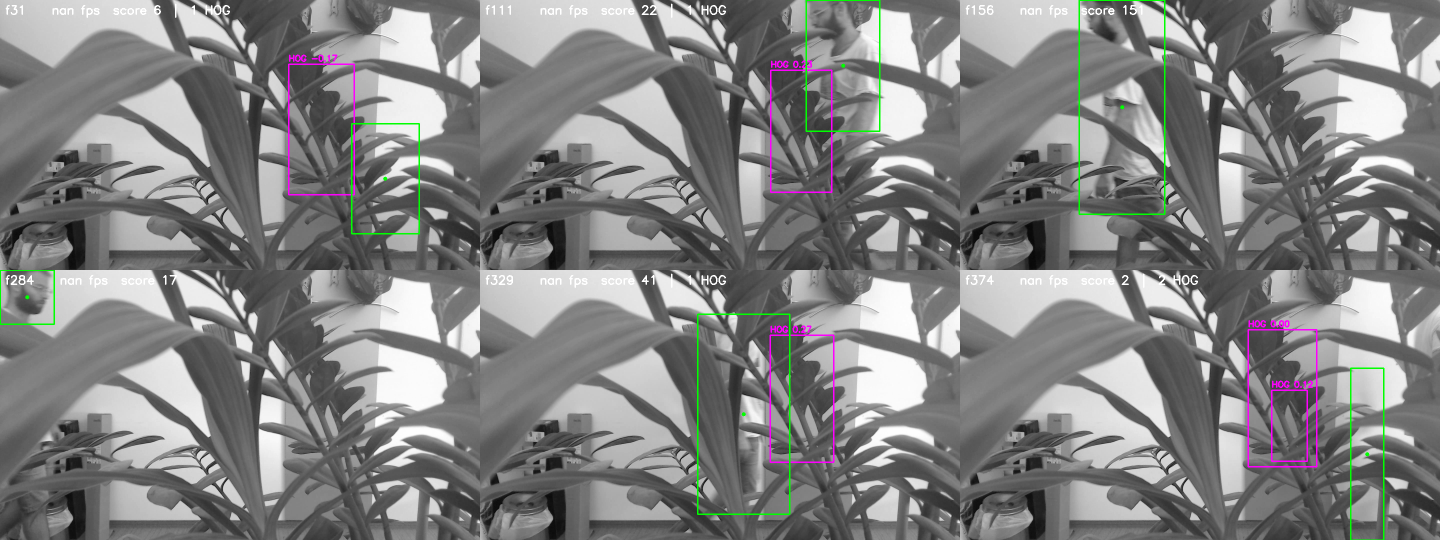
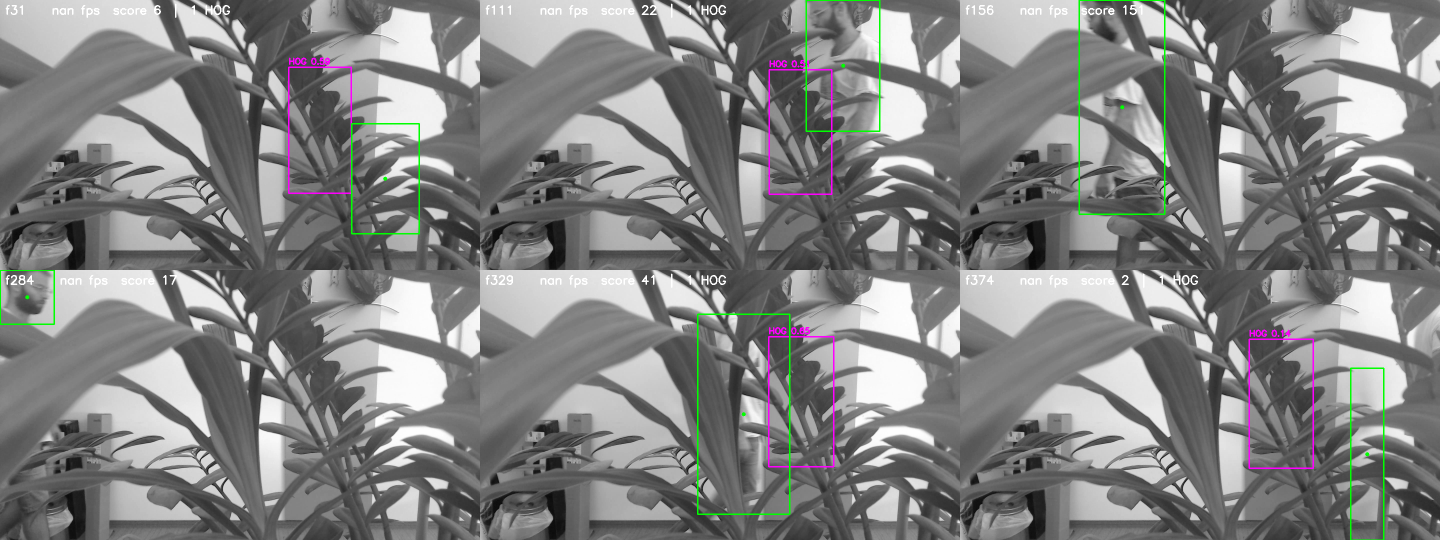
HOG over the merged blob box crop, not a synthetic person-shaped window
detect_person now crops the merged blob box grown by --hog-pad person-heights, resizes so the
person is --hog-target px tall, runs detectMultiScale, and maps the boxes back to full-frame
coordinates so they draw straight on top of the merged box.

box=None now returns [] instead of scanning the whole frame. The full-frame fallback fired
overwhelmingly on foliage and was being folded into the same statistic as box-restricted
detections, which is what made the earlier 13.4%/84.5% numbers meaningless.

Swept target x pad at margin >= 0 (fraction of boxed frames firing): target 256 -> 0.8/0.8/3.9%
for pad 0.10/0.25/0.50; target 384 -> 0.0/1.2/3.1%. Padding matters more than the resize, as
expected: HOG's default detector was trained on INRIA 64x128 windows in which the person fills
only the central half, so a crop cut tight to the silhouette is out of distribution. Best
config target=256 pad=0.5 gives 3.1% at margin >= 0 (mean margin 0.54) and 46.3% at >= -0.5.

Note what is now NOT measurable: with the crop restricted to the box, HOG's detections lie
inside that box by construction, so IoU against it is no longer an independent validity check.
Precision needs NFO's ground-truth boxes. The IoU=0.09 result recorded in the docs applies to
the person-shaped-window variant, and is kept there because it is the evidence that HOG fires on
foliage rather than on people in this scene.

diff --git a/tracking/stream/stream.py b/tracking/stream/stream.py
@@ -167,7 +167,7 @@ def hog_detector():
     return _HOG
 
 
-def detect_person(frame: np.ndarray, centre, person_height: float, pad: float = 0.25,
+def detect_person(frame: np.ndarray, box, person_height: float, pad: float = 0.25,
                   target_px: float = 128.0, win_stride=(8, 8), scale_step: float = 1.05,
                   hit_threshold: float = 0.0):
     """HOG on the CENTRE FRAME, restricted to a scale-relative crop around the tracker's
@@ -182,23 +182,25 @@ def detect_person(frame: np.ndarray, centre, person_height: float, pad: float = 
     own box is what makes this cheap and keeps HOG off the foliage; box=None falls back to the
     whole frame.
 
-    The crop is PERSON-SHAPED, not the merged box: HOG's window has a fixed 1:2 aspect, and
-    the merged box does not (measured on ido_walk its median height is 309px against a 421px
-    person, so it both under-covers and has an arbitrary aspect). So only the box's CENTRE is
-    used, and the window is (0.9 + 2*pad) x (1.5 + 2*pad) person heights around it.
+    The crop is the MERGED BLOB BOX, grown by pad person-heights on each side. Padding is not
+    cosmetic: HOG's default people detector was trained on 64x128 INRIA windows in which the
+    person occupies roughly the central half of the width, so a crop cut tight to the silhouette
+    is out of distribution for it.
+
+    box=None returns [] rather than scanning the whole frame. A full-frame scan on this footage
+    fires overwhelmingly on foliage, and folding that into the same number as box-restricted
+    detections makes the statistic meaningless.
 
     weights from detectMultiScale are SVM decision values, not probabilities - report them as
     the detector's own margin and do not call them a probability. hit_threshold is that same
     margin's accept cutoff; lowering it below 0 surfaces weaker detections rather than none.
     """
     h, w = frame.shape
-    if centre is None:
-        x1, y1, x2, y2 = 0, 0, w, h
-    else:
-        cx, cy = centre
-        hw, hh = (0.45 + pad) * person_height, (0.75 + pad) * person_height
-        x1, y1 = max(0, int(round(cx - hw))), max(0, int(round(cy - hh)))
-        x2, y2 = min(w, int(round(cx + hw))), min(h, int(round(cy + hh)))
+    if box is None:
+        return []
+    m = pad * person_height
+    x1, y1 = max(0, int(round(box[0] - m))), max(0, int(round(box[1] - m)))
+    x2, y2 = min(w, int(round(box[2] + m))), min(h, int(round(box[3] + m)))
     if x2 - x1 < 16 or y2 - y1 < 32:
         return []
     crop = frame[y1:y2, x1:x2]
@@ -251,8 +253,7 @@ def run(video: str, person_height: float, scale: float = 0.5, readout: str = 'ce
             continue
         if hog:
             t1 = time.perf_counter()
-            centre = None if r.x is None else (r.x, r.y)
-            r.detections = detect_person(r.frame, centre, person_height, pad=hog_pad,
+            r.detections = detect_person(r.frame, r.box, person_height, pad=hog_pad,
                                          target_px=hog_target, hit_threshold=hog_thresh)
             hog_time += time.perf_counter() - t1
         results.append(r)
@@ -421,7 +422,7 @@ def main():
                    help="resize the crop so the person is this tall before HOG; HOG's own "
                         "window is 64x128, so this is the scale-free version of an upscale factor")
     p.add_argument('--hog-pad', type=float, default=0.25,
-                   help='margin around the person-shaped crop fed to HOG, in person heights')
+                   help='margin grown around the merged blob box before HOG, in person heights')
     p.add_argument('--hog-thresh', type=float, default=0.0,
                    help="HOG's SVM margin cutoff; below 0 surfaces weaker detections")
     p.add_argument('--out-fps', type=float, default=None,

diff --git a/docs/streaming_minimal_start.md b/docs/streaming_minimal_start.md
@@ -6,13 +6,25 @@
 > scale 0.5), HOG on a person-shaped centre-frame crop centred on the tracker's own position,
 > over the 277 tracked person-present frames:
 >
-> | HOG SVM margin cutoff | frames firing | mean best margin | IoU(best HOG box, merged tracker box) |
-> |---|---|---|---|
-> | >= 0 (default) | 11 / 277 = 4.0% | 0.28 | median **0.09**, fraction > 0.3: **0.00** |
-> | >= -0.5 | 151 / 277 = 54.4% | 0.18 | boxes land on leaves and stems |
+> HOG is run on the MERGED BLOB BOX crop, grown by `--hog-pad` person-heights and resized so
+> the person is `--hog-target` px tall. Best of the sweep is target=256, pad=0.5:
 >
-> **Not one of the 11 positive-margin detections overlaps the tracked person by IoU > 0.3.**
-> HOG is firing on vertical foliage, which produces pedestrian-like oriented-gradient patterns.
+> | HOG SVM margin cutoff | boxed frames firing | mean best margin |
+> |---|---|---|
+> | >= 0 (default) | 7 / 226 = **3.1%** | 0.54 |
+> | >= -0.5 | 109 / 226 = 46.3% | 0.38 |
+>
+> Full sweep at margin >= 0 (`hog_fired_when_boxed`): target 256 with pad 0.10/0.25/0.50 gives
+> 0.8/0.8/3.9%; target 384 gives 0.0/1.2/3.1%. Padding matters more than the resize, which is
+> expected - HOG's default detector was trained on INRIA 64x128 windows where the person fills
+> only the central half, so a crop cut tight to the silhouette is out of distribution.
+>
+> An earlier variant fed HOG a synthetic person-shaped window centred on the tracker's position
+> instead of the box. That fired on 11/277 frames at margin >= 0, and **not one of those 11
+> overlapped the tracked person by IoU > 0.3** (median IoU 0.09) - it was firing on vertical
+> foliage, which produces pedestrian-like oriented-gradient patterns. With the box crop the
+> detections are inside the padded box by construction, so IoU against that box is no longer an
+> independent check: **precision is unmeasurable on this footage and needs NFO's ground truth.**
 > Corroborated from the other side: on data/ido_rotate.mkv, where the plant fills the frame and
 > the tracker's winning-track scores are 0-4 (matching ido_walk's person-ABSENT regime, median
 > 2, against 22-151 when present), HOG fires on 84.5% of frames at margin >= -0.5 with a HIGHER
